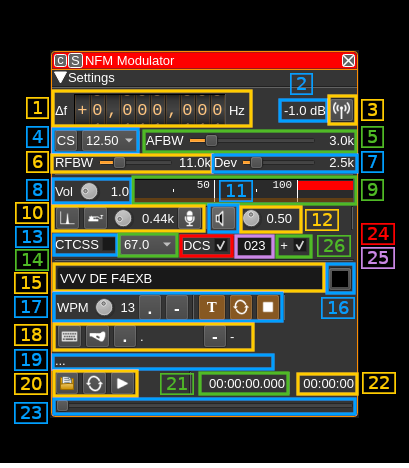
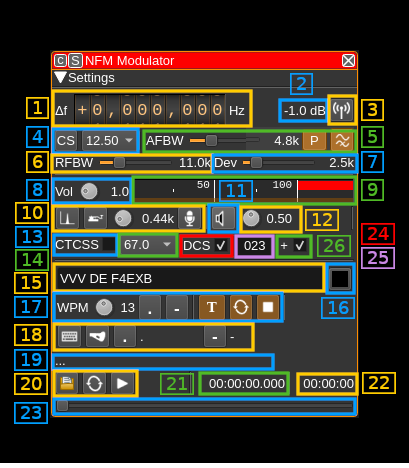
NFM Modulator: updated documentation

Changed region(s): [[0.6748, 0.2692, 0.8802, 0.3291]]

diff --git a/plugins/channeltx/modnfm/readme.md b/plugins/channeltx/modnfm/readme.md
@@ -94,9 +94,11 @@ When you are lost with the RF, AF bandwidths and FM deviation settings you can a
 
 When changing the RF bandwidth the channel spacing selection in the combo box is adjusted to fit within this bandwidth.
 
-<h3>5: Audio frequency bandwidth</h3>
+<h3>5: Audio Filters</h3>
 
-This is the bandwidth in khz of the modulating signal filtered before modulation.
+  - The slider controls the bandwidth in khz of the modulating signal filtered before modulation.
+  - The "P" switch button next activates or de-activates pre-emphasis (fixed 120 &mu;s)
+  - The rightmost button next activates or de-activates 300 Hz highpass filter when no CTCSS nor DCS is active
 
 <h3>6: RF bandwidth</h3>
 
